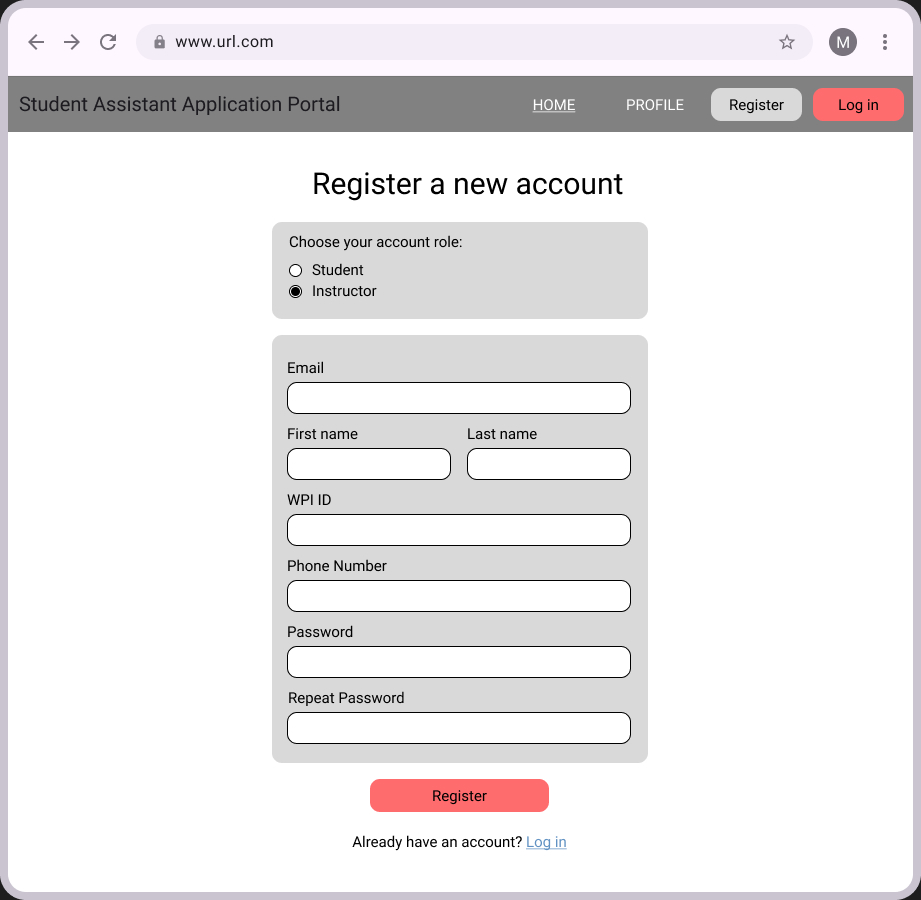
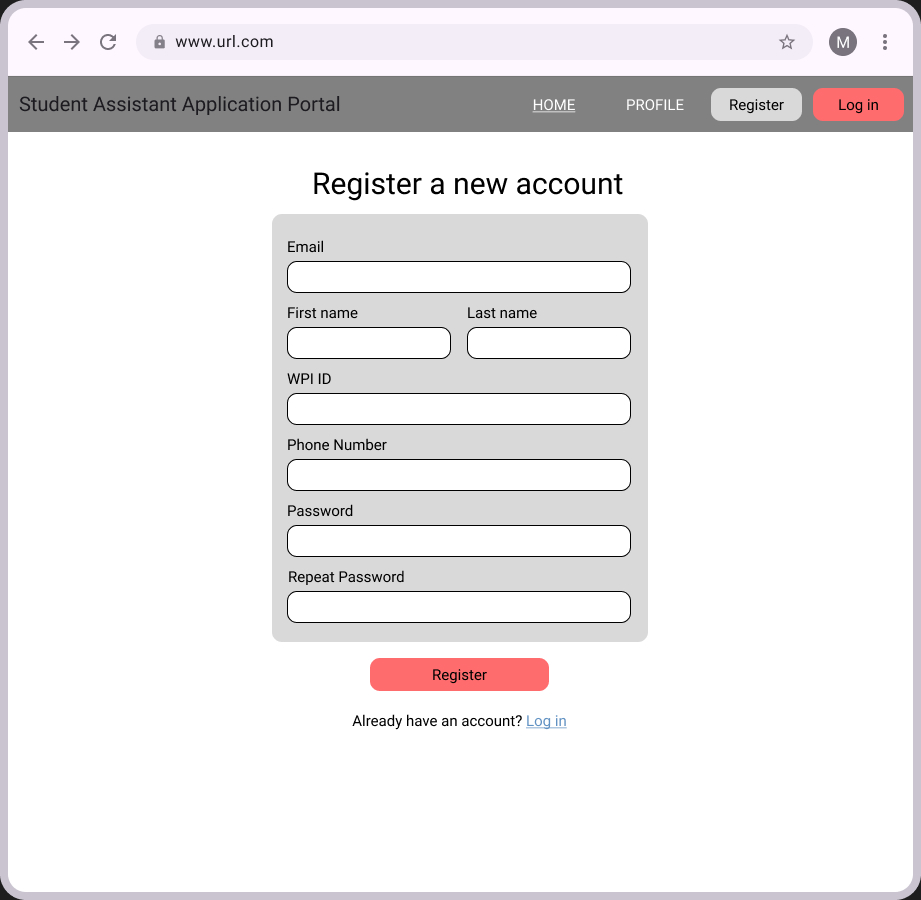
Change UI design mockups - separating registering into two steps for easier implementation

Changed region(s): [[0.2736, 0.2178, 0.7296, 0.9022], [0.3952, 0.9333, 0.608, 0.9644]]

diff --git a/documents/RequirementsDocument.md b/documents/RequirementsDocument.md
@@ -191,6 +191,11 @@ On the instructor page, a faculty user can:
 
 The sketches or mockups for the main parts of the interface.
 
+The UI for choosing account role
+  <kbd>
+      <img src="images/register_prompt.jpg"  border="2">
+  </kbd>
+
 The UI for registering as an instructor
   <kbd>
       <img src="images/instr_register.jpg"  border="2">
